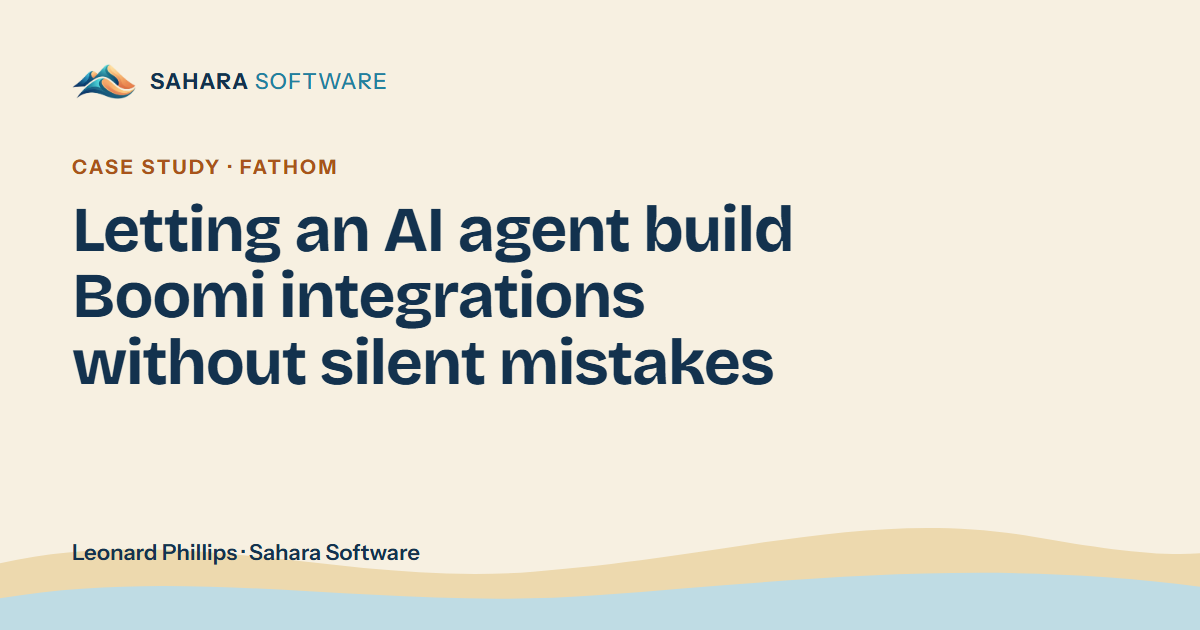
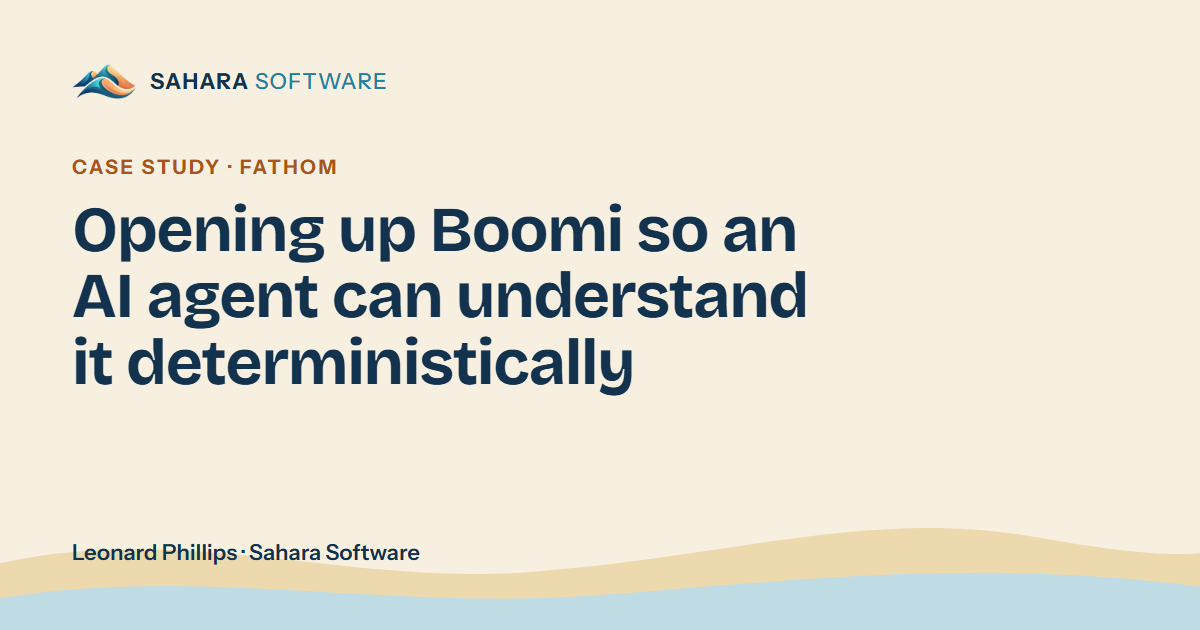
Rewrite the Fathom case study around determinism and the design stage
Fathom is live at version 1.0 and used by the client's integration
developers, so its status, card and the Experience entry say so.

The case study now leads with Fathom's core idea: opening Boomi up so an
agent can understand it deterministically, leaving it as little as
possible to assume. A new section describes the visual design stage,
where the developer shapes the integration with the agent before anything
is built. The homepage principles follow the same two ideas, and the
plugins service says each plugin is built to be as deterministic as
possible.

A long status in the case-study panel now wraps instead of overflowing.

Changed region(s): [[0.0617, 0.3317, 0.6783, 0.6333]]

diff --git a/src/styles/global.css b/src/styles/global.css
@@ -698,6 +698,9 @@ code, pre, kbd { font-family: var(--font-mono); }
 .case-panel ul.links { list-style: none; margin: 0; padding: 0; display: flex; flex-direction: column; gap: 6px; }
 .case-panel ul.links a { font-weight: 600; }
 .status-date { display: block; font-size: 13px; color: var(--muted); margin-top: 4px; }
+/* A long status wraps inside the panel instead of running past its edge. */
+.case-panel .badge { white-space: normal; line-height: 1.4; border-radius: 10px; align-items: baseline; }
+.case-panel .badge-live::before { flex-shrink: 0; transform: translateY(-1px); }
 
 /* Long-form text written in Markdown. */
 .prose { max-width: 70ch; }
